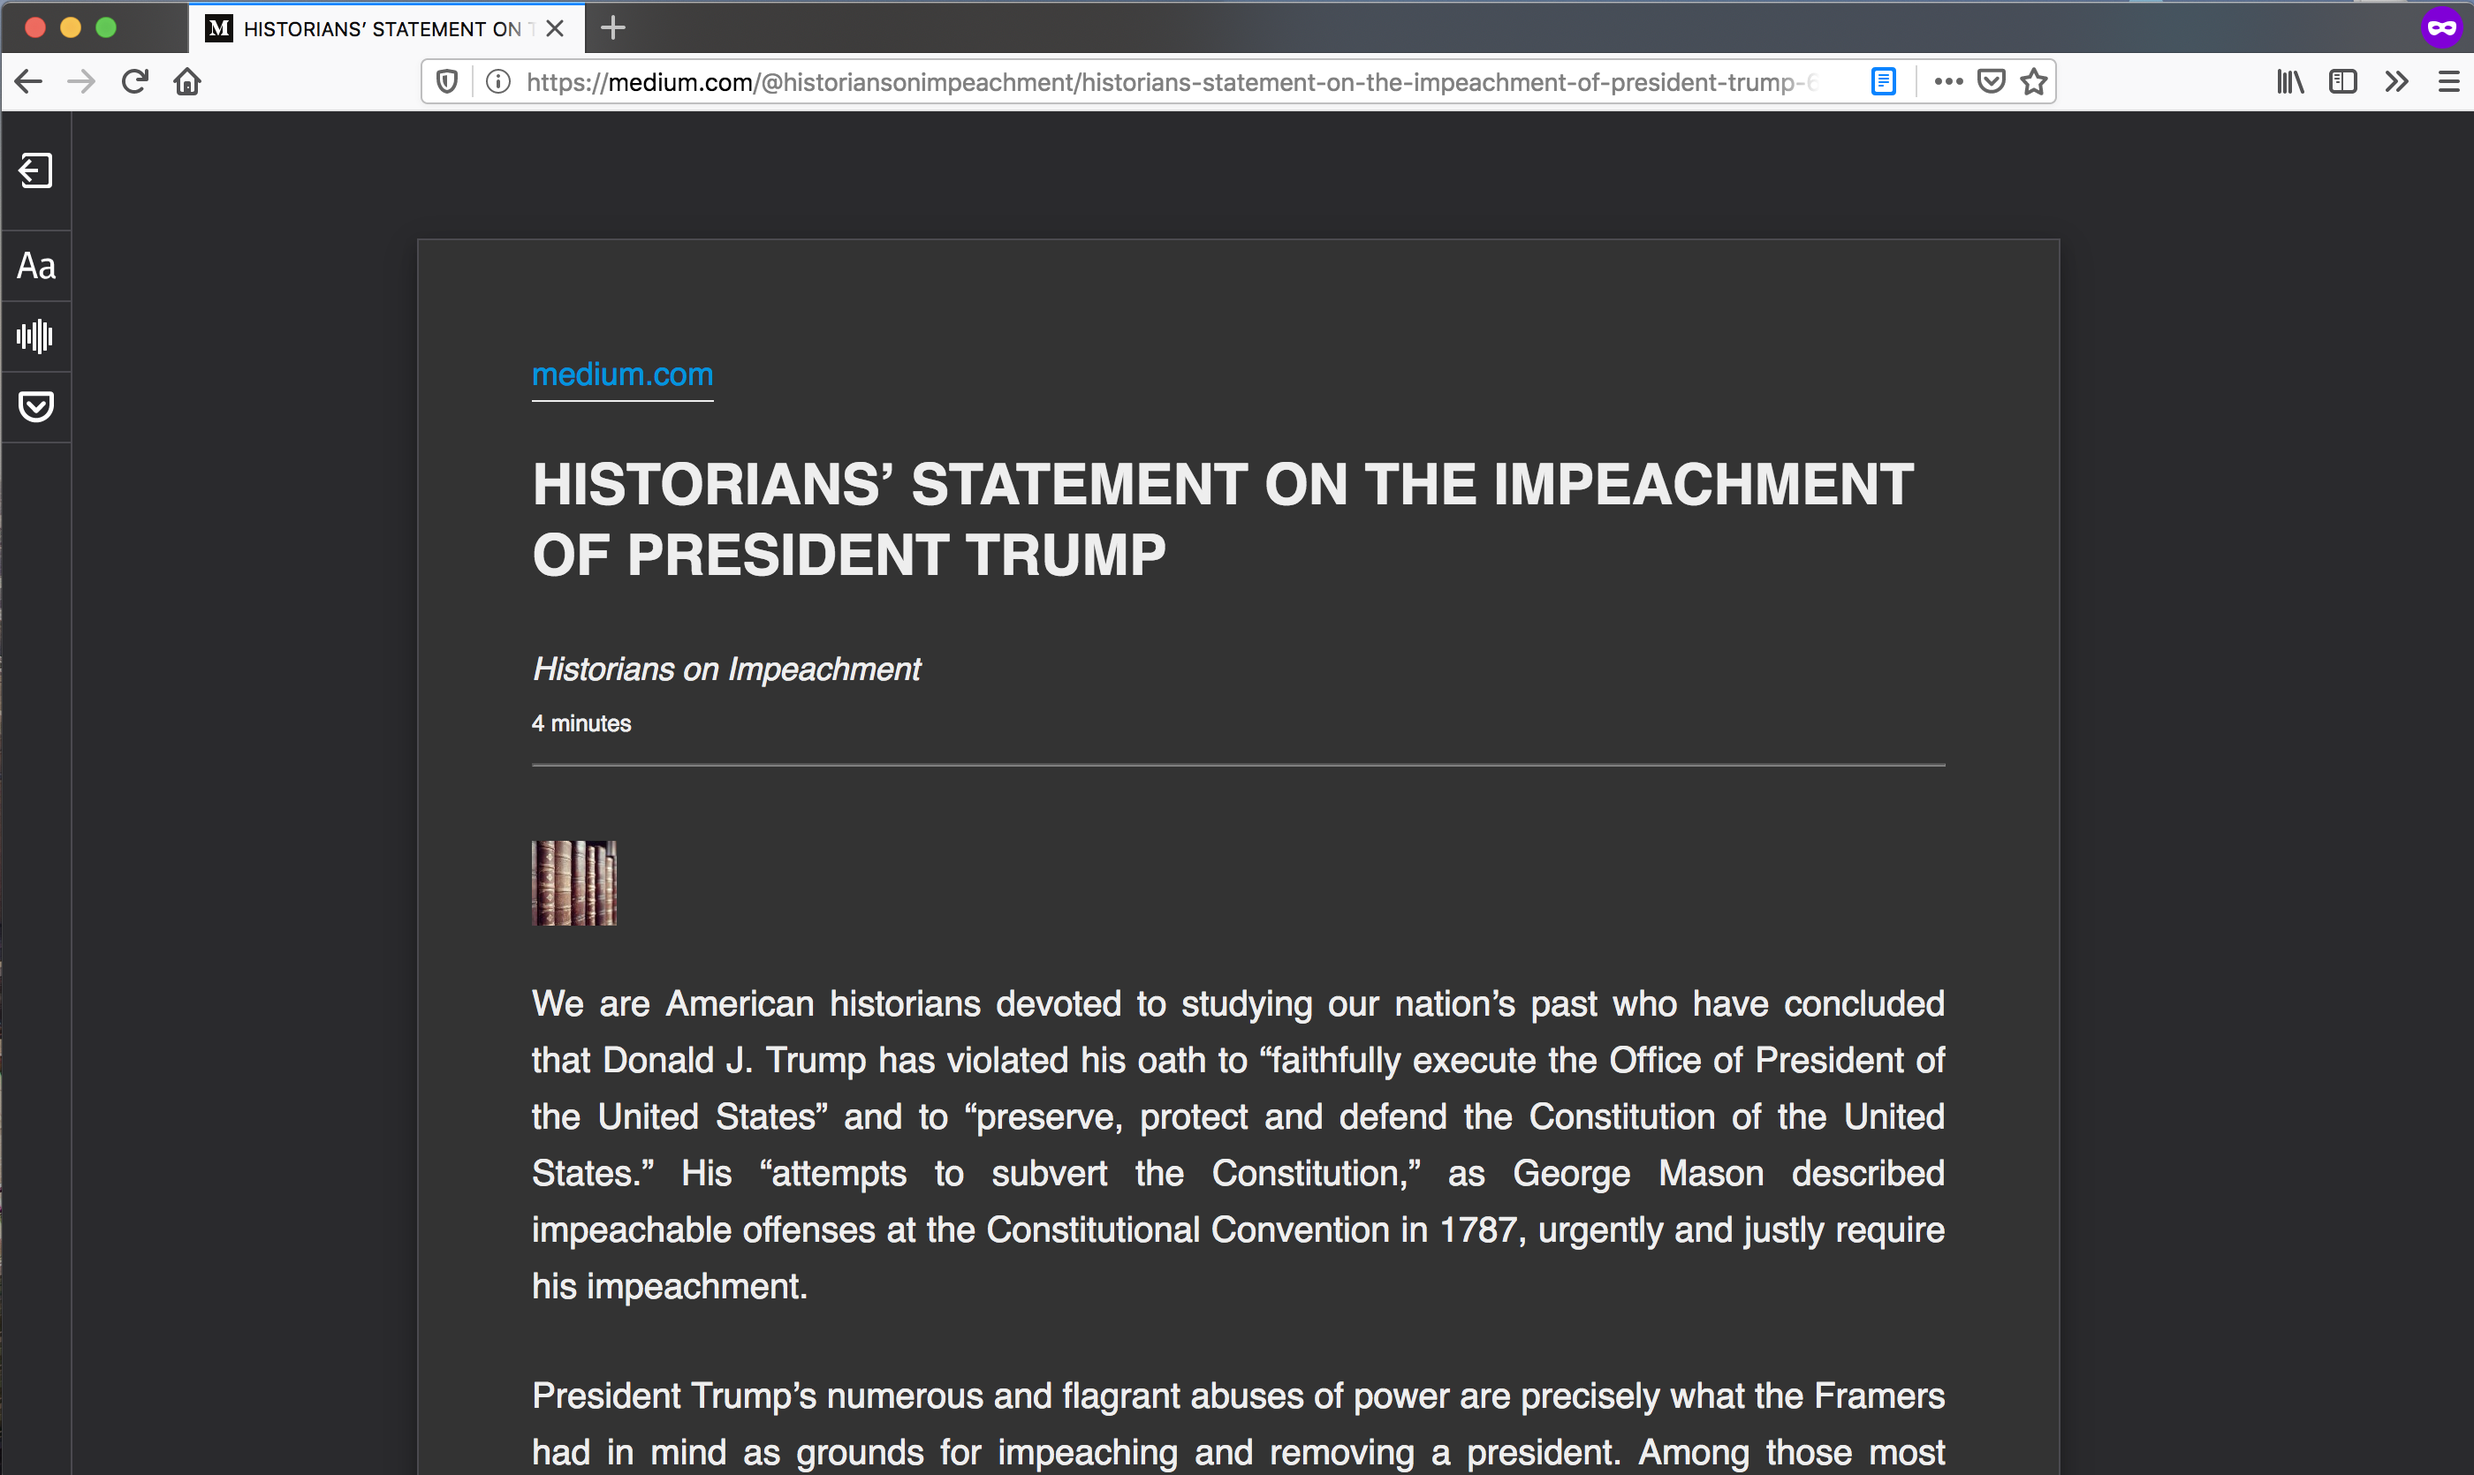
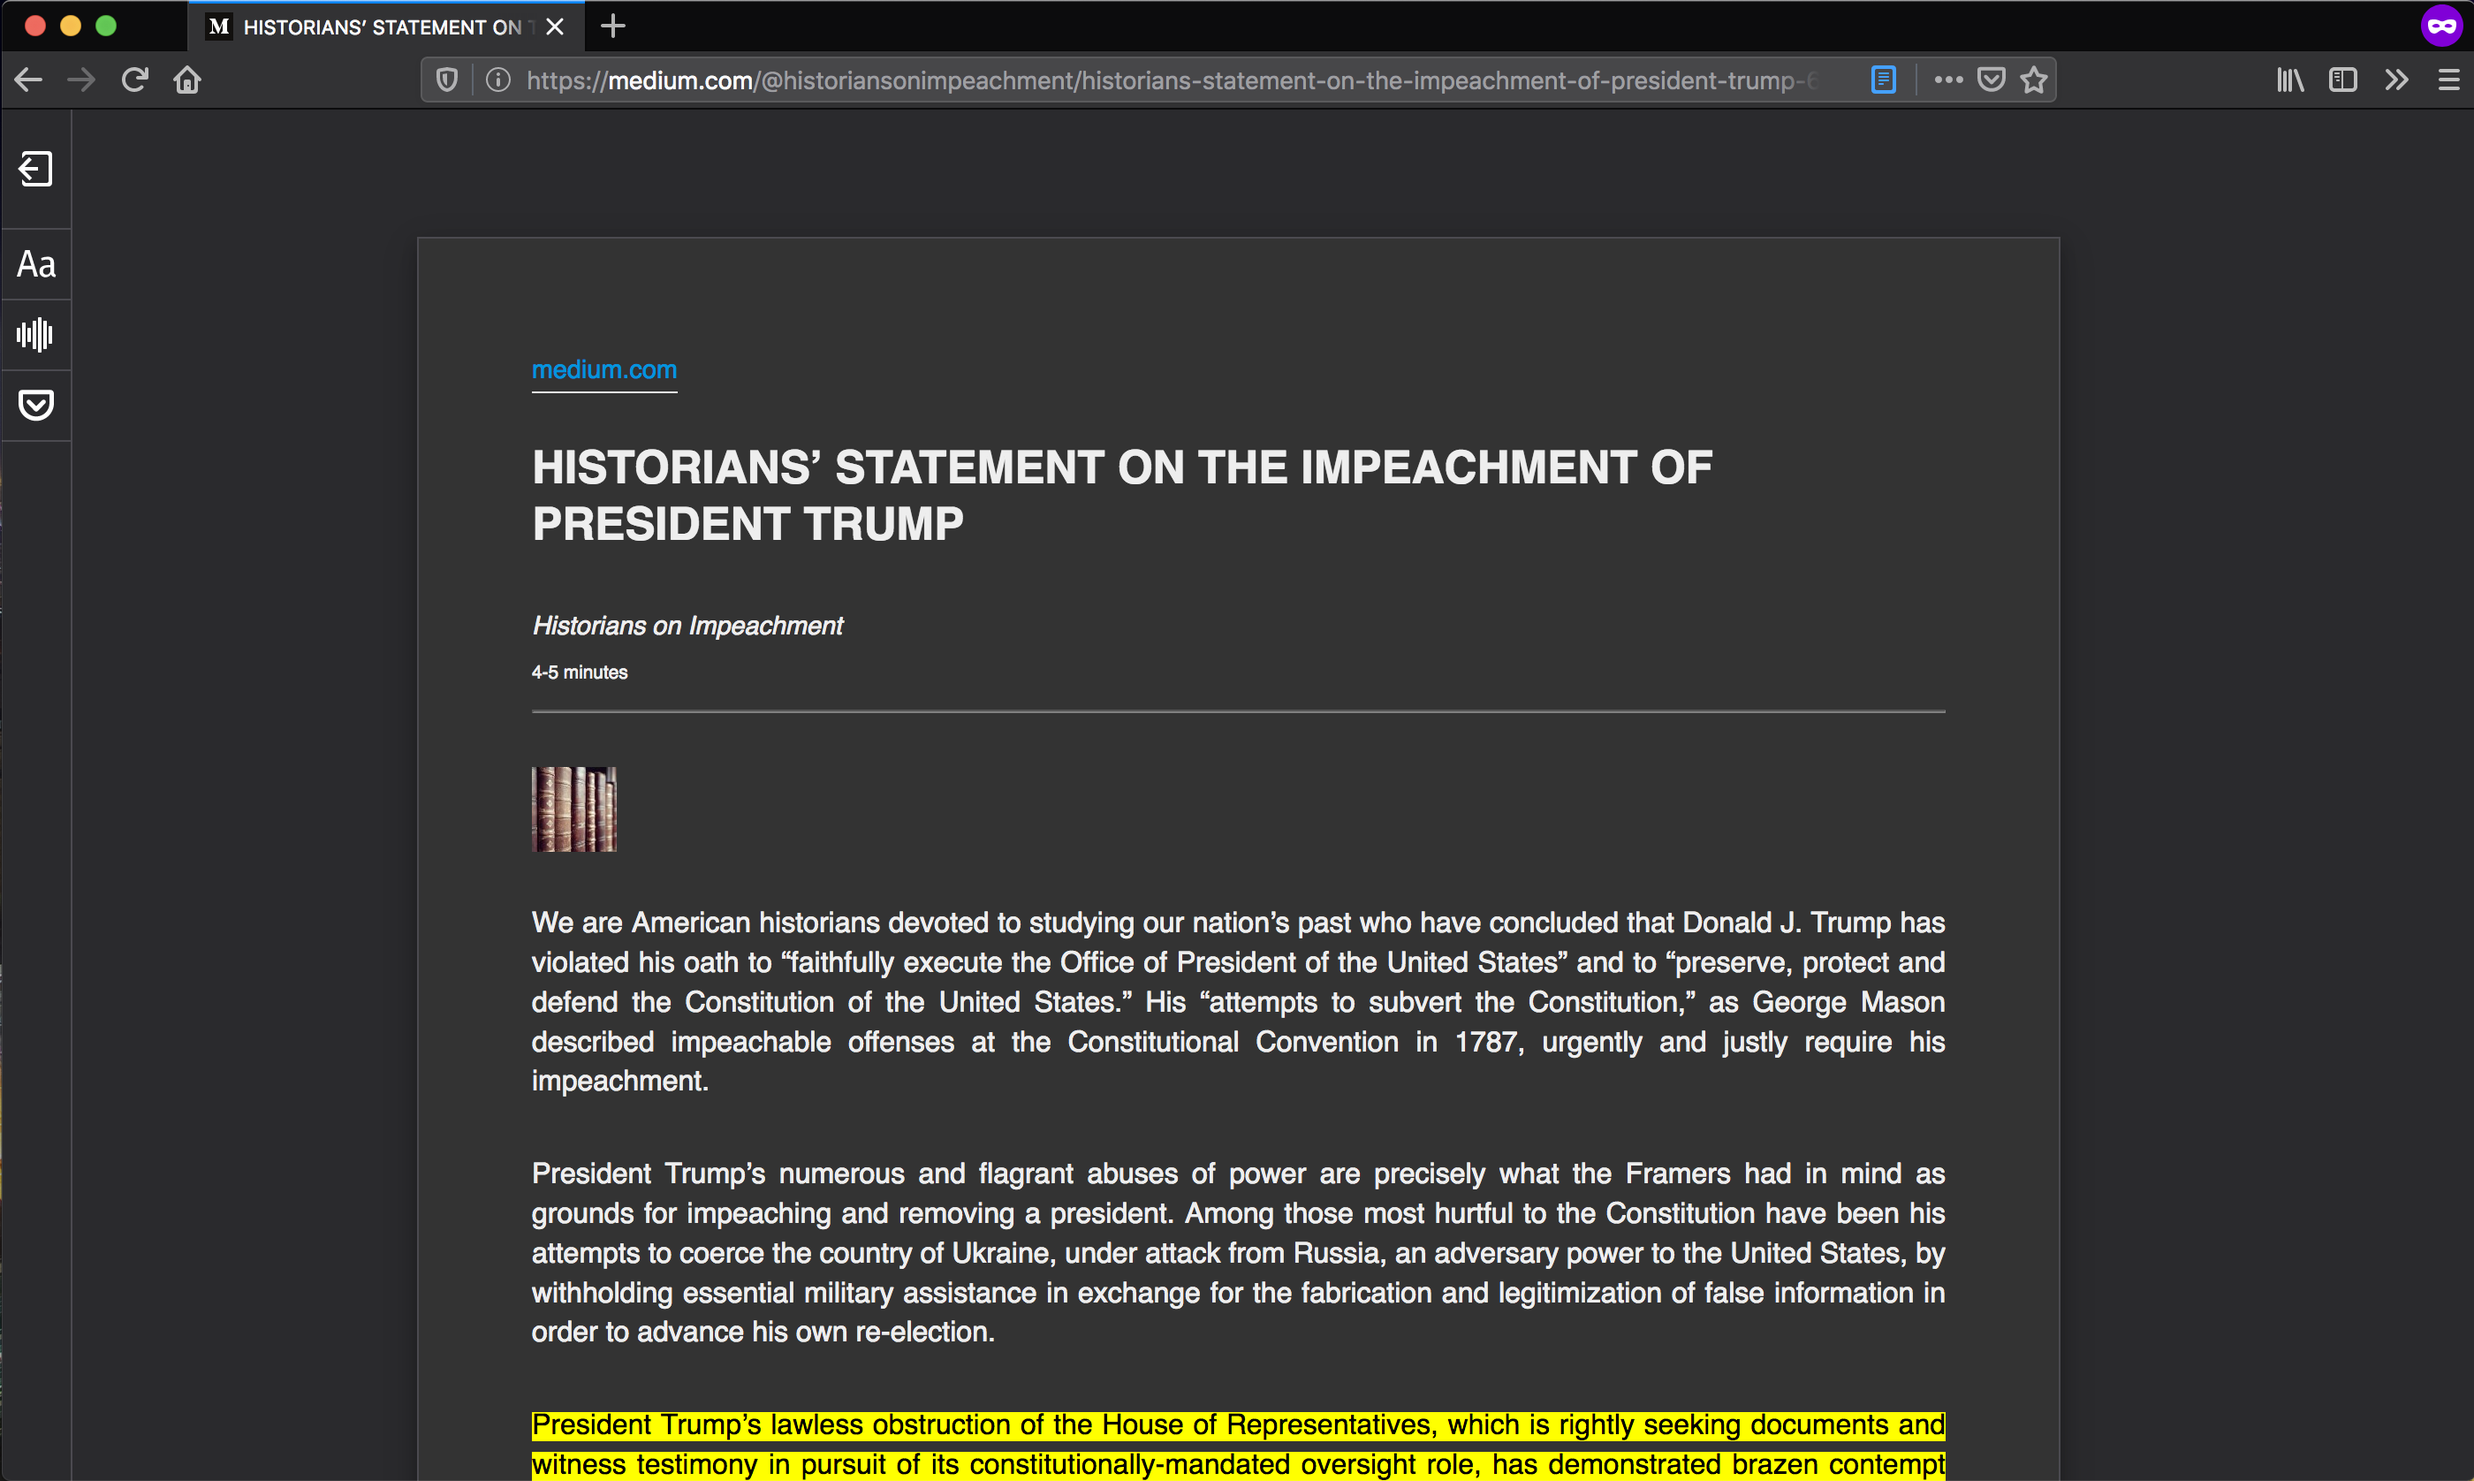
January 2020: Added Custom Sepia Mode

diff --git a/firefox/userContent.css b/firefox/userContent.css
@@ -180,4 +180,108 @@
     }
 
 
+
+    .sepia {
+        background-color: #2a2a2d !important;
+        --toolbar-bgcolor: #2a2a2d !important;
+        --toolbar-border: #4B4A50 !important;
+        --toolbar-hover: #737373 !important;
+        --popup-bgcolor: #4b4a50 !important;
+        --popup-border: #65646a !important;
+        --font-color: #fff !important;
+        --icon-fill: #fff !important;
+    }
+
+    .sepia .content-width1 {
+        padding: 5% !important;
+        background-color: #ffffff !important;
+        color: #000000 !important;
+        border-style: solid !important;
+        border-width: 1px !important;
+        border-color: #4B4A50 !important;
+        box-shadow: 0 4px 8px 0 rgba(0, 0, 0, 0.2), 0 6px 20px 0 rgba(0, 0, 0, 0.19);
+    }
+
+    .sepia .content-width2 {
+        padding: 5% !important;
+        background-color: #ffffff !important;
+        color: #000000 !important;
+        border-style: solid !important;
+        border-width: 1px !important;
+        border-color: #4B4A50 !important;
+        box-shadow: 0 4px 8px 0 rgba(0, 0, 0, 0.2), 0 6px 20px 0 rgba(0, 0, 0, 0.19);
+    }
+
+    .sepia .content-width3 {
+        padding: 5% !important;
+        background-color: #ffffff !important;
+        color: #000000 !important;
+        border-style: solid !important;
+        border-width: 1px !important;
+        border-color: #4B4A50 !important;
+        box-shadow: 0 4px 8px 0 rgba(0, 0, 0, 0.2), 0 6px 20px 0 rgba(0, 0, 0, 0.19);
+    }
+
+    .sepia .content-width4 {
+        padding: 5% !important;
+        background-color: #ffffff !important;
+        color: #000000 !important;
+        border-style: solid !important;
+        border-width: 1px !important;
+        border-color: #4B4A50 !important;
+        box-shadow: 0 4px 8px 0 rgba(0, 0, 0, 0.2), 0 6px 20px 0 rgba(0, 0, 0, 0.19);
+    }
+
+    .sepia .content-width5 {
+        padding: 5% !important;
+        background-color: #ffffff !important;
+        color: #000000 !important;
+        border-style: solid !important;
+        border-width: 1px !important;
+        border-color: #4B4A50 !important;
+        box-shadow: 0 4px 8px 0 rgba(0, 0, 0, 0.2), 0 6px 20px 0 rgba(0, 0, 0, 0.19);
+    }
+
+    .sepia .content-width6 {
+        padding: 5% !important;
+        background-color: #ffffff !important;
+        color: #000000 !important;
+        border-style: solid !important;
+        border-width: 1px !important;
+        border-color: #4B4A50 !important;
+        box-shadow: 0 4px 8px 0 rgba(0, 0, 0, 0.2), 0 6px 20px 0 rgba(0, 0, 0, 0.19);
+    }
+
+    .sepia .content-width7 {
+        padding: 5% !important;
+        background-color: #ffffff !important;
+        color: #000000 !important;
+        border-style: solid !important;
+        border-width: 1px !important;
+        border-color: #4B4A50 !important;
+        box-shadow: 0 4px 8px 0 rgba(0, 0, 0, 0.2), 0 6px 20px 0 rgba(0, 0, 0, 0.19);
+    }
+
+    .sepia .content-width8 {
+        padding: 5% !important;
+        background-color: #ffffff !important;
+        color: #000000 !important;
+        border-style: solid !important;
+        border-width: 1px !important;
+        border-color: #4B4A50 !important;
+        box-shadow: 0 4px 8px 0 rgba(0, 0, 0, 0.2), 0 6px 20px 0 rgba(0, 0, 0, 0.19);
+    }
+
+    .sepia .content-width9 {
+        padding: 5% !important;
+        background-color: #ffffff !important;
+        color: #000000 !important;
+        border-style: solid !important;
+        border-width: 1px !important;
+        border-color: #4B4A50 !important;
+        box-shadow: 0 4px 8px 0 rgba(0, 0, 0, 0.2), 0 6px 20px 0 rgba(0, 0, 0, 0.19);
+    }
+
+
+
 }

diff --git a/firefox/readme.md b/firefox/readme.md
@@ -15,8 +15,12 @@ For users of Firefox 69 and above, the following additional step is necessary:
 8. Make sure the toggle is set to `true`.
 9. Restart Firefox.
 
+Note: I don't care for sepia, so I am using it for a third style that resembles the first iteration of macOS's dark mode: dark context but light content.
+
 The result should look like this:
 
 ![Example Article in Light Mode](screenshot-light.png?raw=true "Example Article in Light Mode")
 
 ![Example Article in Dark Mode](screenshot-dark.png?raw=true "Example Article in Dark Mode")
+
+![Example Article in Sepia Mode](screenshot-sepia.png?raw=true "Example Article in 'Sepia' Mode")
